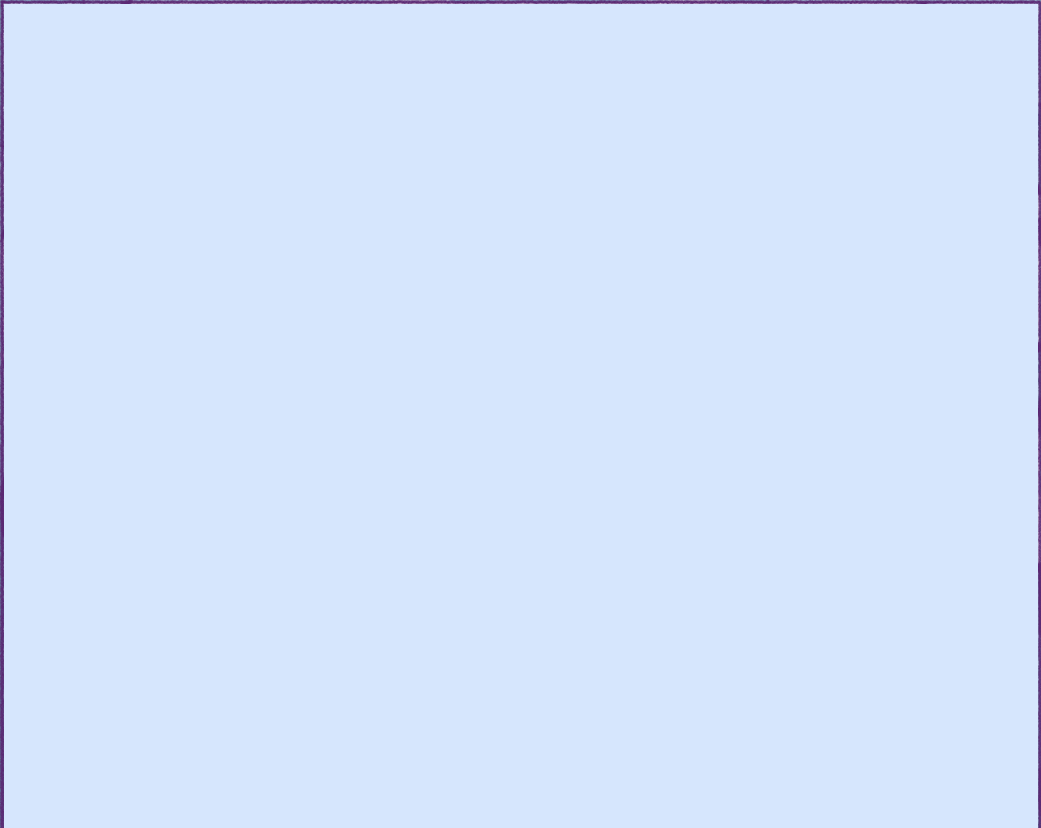
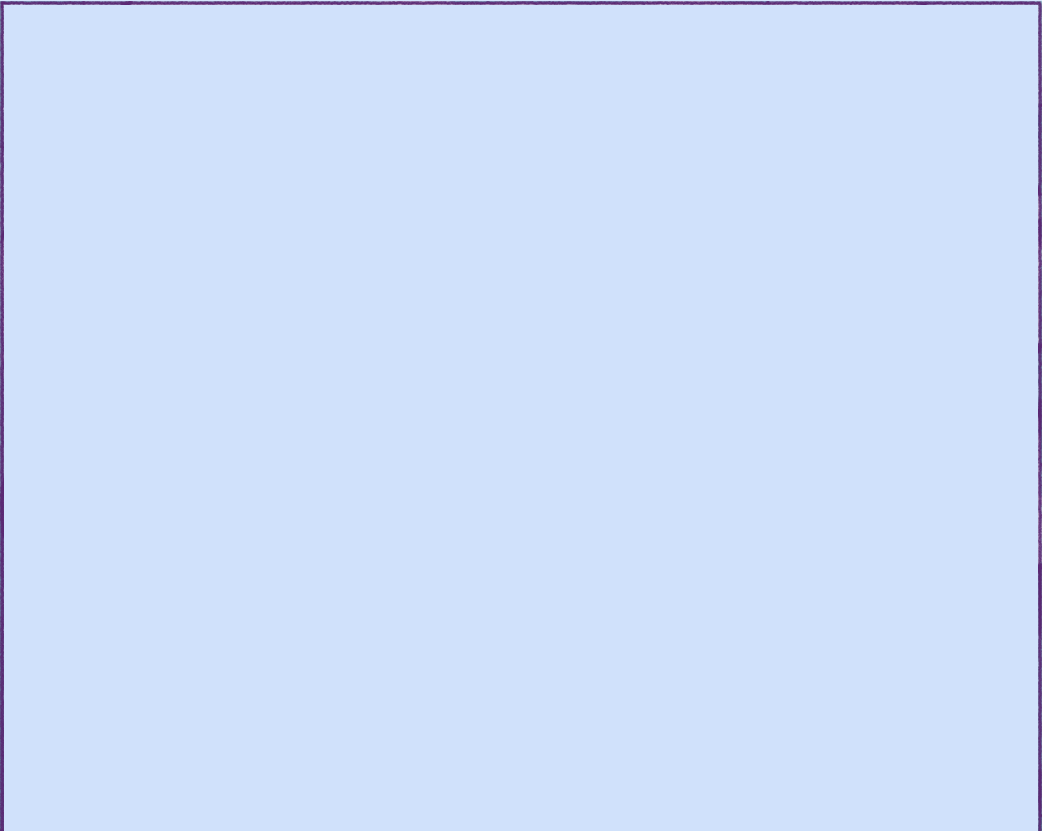
Reduce image size and clean asset

Changed region(s): [[0.0, 0.0, 1.0, 1.0]]

diff --git a/app/src/main/java/com/illiouchine/toothbrush/ui/composable/PipouBackground.kt b/app/src/main/java/com/illiouchine/toothbrush/ui/composable/PipouBackground.kt
@@ -1,53 +1,131 @@
 package com.illiouchine.toothbrush.ui.composable
 
-import androidx.compose.foundation.Image
-import androidx.compose.foundation.layout.fillMaxSize
-import androidx.compose.material3.Surface
+import androidx.compose.foundation.background
+import androidx.compose.foundation.layout.*
+import androidx.compose.material3.MaterialTheme
 import androidx.compose.runtime.Composable
-import androidx.compose.runtime.remember
 import androidx.compose.ui.Modifier
-import androidx.compose.ui.draw.blur
-import androidx.compose.ui.graphics.ImageBitmap
-import androidx.compose.ui.graphics.asImageBitmap
+import androidx.compose.ui.draw.paint
+import androidx.compose.ui.graphics.Color
 import androidx.compose.ui.layout.ContentScale
-import androidx.compose.ui.platform.LocalContext
+import androidx.compose.ui.res.painterResource
+import androidx.compose.ui.tooling.preview.Devices
 import androidx.compose.ui.tooling.preview.Preview
-import androidx.compose.ui.unit.dp
-import com.illiouchine.toothbrush.ui.utils.assetsToBitmap
+import com.illiouchine.toothbrush.R
 
-@Preview
+@Preview(name = "NEXUS_7", device = Devices.NEXUS_7)
+@Preview(name = "NEXUS_7_2013", device = Devices.NEXUS_7_2013)
+@Preview(name = "NEXUS_5", device = Devices.NEXUS_5)
+@Preview(name = "NEXUS_9", device = Devices.NEXUS_9)
+@Preview(name = "NEXUS_10", device = Devices.NEXUS_10)
+@Preview(name = "NEXUS_5X", device = Devices.NEXUS_5X)
+@Preview(name = "PIXEL_C", device = Devices.PIXEL_C)
+@Preview(name = "PIXEL", device = Devices.PIXEL)
+@Preview(name = "PIXEL_2", device = Devices.PIXEL_2)
+@Preview(name = "PIXEL_3", device = Devices.PIXEL_3)
+@Preview(name = "PIXEL_3A", device = Devices.PIXEL_3A)
+@Preview(name = "PIXEL_3A_XL", device = Devices.PIXEL_3A_XL)
+@Preview(name = "PIXEL_4", device = Devices.PIXEL_4)
+@Preview(name = "AUTOMOTIVE_1024p", device = Devices.AUTOMOTIVE_1024p)
 @Composable
 fun PipouBackground(
-    enableBlur: Boolean = false,
-    content: @Composable () -> Unit = {}
+    mirrorContent: @Composable (() -> Unit)? = null,
+    fullScreenContent: @Composable (() -> Unit)? = null
 ) {
-    val context = LocalContext.current
-    val bitmap: ImageBitmap? = remember {
-        context
-            .assetsToBitmap("brossage_dents_redimension.jpg")
-            ?.asImageBitmap()
-    }
-
-    val modifier = if (enableBlur) Modifier.blur(radius = 40.dp) else Modifier
-
-    Surface {
-        bitmap?.let {
-            Image(
-                modifier = modifier.fillMaxSize(),
-                bitmap = it,
-                contentDescription = null,
-                contentScale = ContentScale.Crop
-            )
+    BoxWithConstraints {
+        Column(
+            modifier = Modifier.fillMaxSize()
+        ) {
+            Row(
+                modifier = Modifier
+                    .fillMaxWidth()
+                    .background(Color.Cyan)
+                    .height(this@BoxWithConstraints.maxHeight * 0.1316f)
+                    .paint(
+                        painterResource(
+                            id = R.drawable.pipou_bg_top
+                        ),
+                        contentScale = ContentScale.FillBounds
+                    )
+            ) { }
+            BoxWithConstraints(
+                modifier = Modifier
+                    .fillMaxWidth()
+                    .background(Color.LightGray)
+                    .height(this@BoxWithConstraints.maxHeight * 0.3234f)
+            ) {
+                Row() {
+                    Box(
+                        Modifier
+                            .background(Color.Green)
+                            .fillMaxHeight()
+                            .width(this@BoxWithConstraints.maxWidth * 0.1388f)
+                            .paint(
+                                painterResource(
+                                    id = R.drawable.pipou_bg_left
+                                ),
+                                contentScale = ContentScale.FillBounds
+                            )
+                    )
+                    Box(
+                        Modifier
+                            .background(Color.Yellow)
+                            .fillMaxHeight()
+                            .width(this@BoxWithConstraints.maxWidth * 0.7229f)
+                            .paint(
+                                painterResource(
+                                    id = R.drawable.pipou_bg_center
+                                ),
+                                contentScale = ContentScale.FillBounds
+                            )
+                    ) {
+                        if (mirrorContent != null) {
+                            mirrorContent()
+                        }
+                    }
+                    Box(
+                        Modifier
+                            .background(Color.Red)
+                            .fillMaxHeight()
+                            .width(this@BoxWithConstraints.maxWidth * 0.1388f)
+                            .paint(
+                                painterResource(
+                                    id = R.drawable.pipou_bg_right
+                                ),
+                                contentScale = ContentScale.FillBounds
+                            )
+                    )
+                }
+            }
+            Row(
+                modifier = Modifier
+                    .background(Color.Blue)
+                    .fillMaxWidth()
+                    .height(this@BoxWithConstraints.maxHeight * 0.5449f)
+                    .paint(
+                        painterResource(
+                            id = R.drawable.pipou_bg_bottom
+                        ),
+                        contentScale = ContentScale.FillBounds
+                    ),
+            ) {}
         }
-        content()
+        if (fullScreenContent != null) {
+            Box(
+                modifier = Modifier
+                    .fillMaxSize()
+                    .background(MaterialTheme.colorScheme.secondaryContainer.copy(alpha = 0.9f))
+            ) {
+                fullScreenContent()
+            }
+        }
     }
 }
 
 @Preview
 @Composable
-fun PipouBackgroundWithBlur(
-) {
+fun WithFullContent() {
     PipouBackground(
-        enableBlur = true
+        fullScreenContent = {}
     )
 }

diff --git a/app/src/main/java/com/illiouchine/toothbrush/feature/settings/SettingsScreen.kt b/app/src/main/java/com/illiouchine/toothbrush/feature/settings/SettingsScreen.kt
@@ -15,7 +15,7 @@ import androidx.compose.ui.unit.dp
 import com.illiouchine.toothbrush.R
 import com.illiouchine.toothbrush.feature.settings.SettingsContract.SettingsState.CountDownSettings
 import com.illiouchine.toothbrush.feature.settings.SettingsContract.SettingsState.ReminderState
-import com.illiouchine.toothbrush.ui.composable.PipouBackgroundV2
+import com.illiouchine.toothbrush.ui.composable.PipouBackground
 import com.illiouchine.toothbrush.ui.composable.settings.CountDownSettingsView
 import com.illiouchine.toothbrush.ui.composable.settings.CountDownState
 import com.illiouchine.toothbrush.ui.composable.settings.ThanksView
@@ -38,7 +38,7 @@ fun SettingsScreen(
     onNotificationCheckedChanged: ((checked: Boolean, reminderDayPeriod: ReminderDayPeriod, hour: Int, min: Int) -> Unit) = { _, _, _, _ -> },
     onThanksClicked: ()-> Unit = {}
 ) {
-    PipouBackgroundV2 {
+    PipouBackground {
         val context = LocalContext.current
         Column(modifier = Modifier.padding(16.dp)) {
             Text(text = stringResource(R.string.settings_title), style = typography.titleLarge)

diff --git a/app/src/main/java/com/illiouchine/toothbrush/feature/statistics/StatisticsScreen.kt b/app/src/main/java/com/illiouchine/toothbrush/feature/statistics/StatisticsScreen.kt
@@ -9,7 +9,7 @@ import androidx.compose.ui.Modifier
 import androidx.compose.ui.tooling.preview.Preview
 import androidx.compose.ui.unit.dp
 import com.illiouchine.toothbrush.feature.statistics.StatisticsContract.StatisticsState.StatisticsState
-import com.illiouchine.toothbrush.ui.composable.PipouBackgroundV2
+import com.illiouchine.toothbrush.ui.composable.PipouBackground
 import com.illiouchine.toothbrush.ui.composable.history.HistoryContent
 import com.illiouchine.toothbrush.ui.composable.history.HistoryState
 
@@ -18,7 +18,7 @@ import com.illiouchine.toothbrush.ui.composable.history.HistoryState
 fun StatisticsScreen(
     statisticsState: StatisticsState = StatisticsState.Loaded(brushHistory = listOf()),
 ) {
-    PipouBackgroundV2 {
+    PipouBackground {
         Column(
             modifier = Modifier
                 .fillMaxSize()

diff --git a/app/src/main/java/com/illiouchine/toothbrush/feature/brushing/BrushScreen.kt b/app/src/main/java/com/illiouchine/toothbrush/feature/brushing/BrushScreen.kt
@@ -2,7 +2,7 @@ package com.illiouchine.toothbrush.feature.brushing
 
 import androidx.compose.runtime.Composable
 import androidx.compose.ui.tooling.preview.Preview
-import com.illiouchine.toothbrush.ui.composable.PipouBackgroundV2
+import com.illiouchine.toothbrush.ui.composable.PipouBackground
 import com.illiouchine.toothbrush.ui.composable.achievement.AchievementAlertDialog
 import com.illiouchine.toothbrush.ui.composable.achievement.AlertDialogAchievement
 import com.illiouchine.toothbrush.ui.composable.brushtimer.BrushTimer
@@ -17,7 +17,7 @@ fun BrushScreen(
     onStartClick: () -> Unit = {},
     onAchievementsHandled: () -> Unit = {}
 ) {
-    PipouBackgroundV2(
+    PipouBackground(
         mirrorContent = {
             BrushTimer(
                 timerState = timerState.toBrushTimerState(),

diff --git a/app/src/main/java/com/illiouchine/toothbrush/feature/achievements/AchievementsScreen.kt b/app/src/main/java/com/illiouchine/toothbrush/feature/achievements/AchievementsScreen.kt
@@ -8,7 +8,7 @@ import androidx.compose.ui.Modifier
 import androidx.compose.ui.res.stringResource
 import androidx.compose.ui.tooling.preview.Preview
 import androidx.compose.ui.unit.dp
-import com.illiouchine.toothbrush.ui.composable.PipouBackgroundV2
+import com.illiouchine.toothbrush.ui.composable.PipouBackground
 import com.illiouchine.toothbrush.ui.composable.achievement.AchievementContent
 import com.illiouchine.toothbrush.ui.composable.achievement.AchievementState
 
@@ -20,7 +20,7 @@ fun AchievementsScreen(
         achievements = listOf()
     )
 ) {
-    PipouBackgroundV2 {
+    PipouBackground {
         Column(
             modifier = Modifier
                 .fillMaxSize()

diff --git a/README.md b/README.md
@@ -51,6 +51,7 @@ This project use the MVI (Model View Intent) architecture and use a custom mvi l
 - [x] setup reminder of brushing
 - [x] Split the statistic and achievement section
 - [x] Manage external link in Thanks section : https://www.instagram.com/krogogo/
+- [x] Change pipou background image from png to webp
 - [ ] Setup PlayStore and CD/CI
 - [ ] setup Mini game when brushing
 - [ ] Setup tablet
